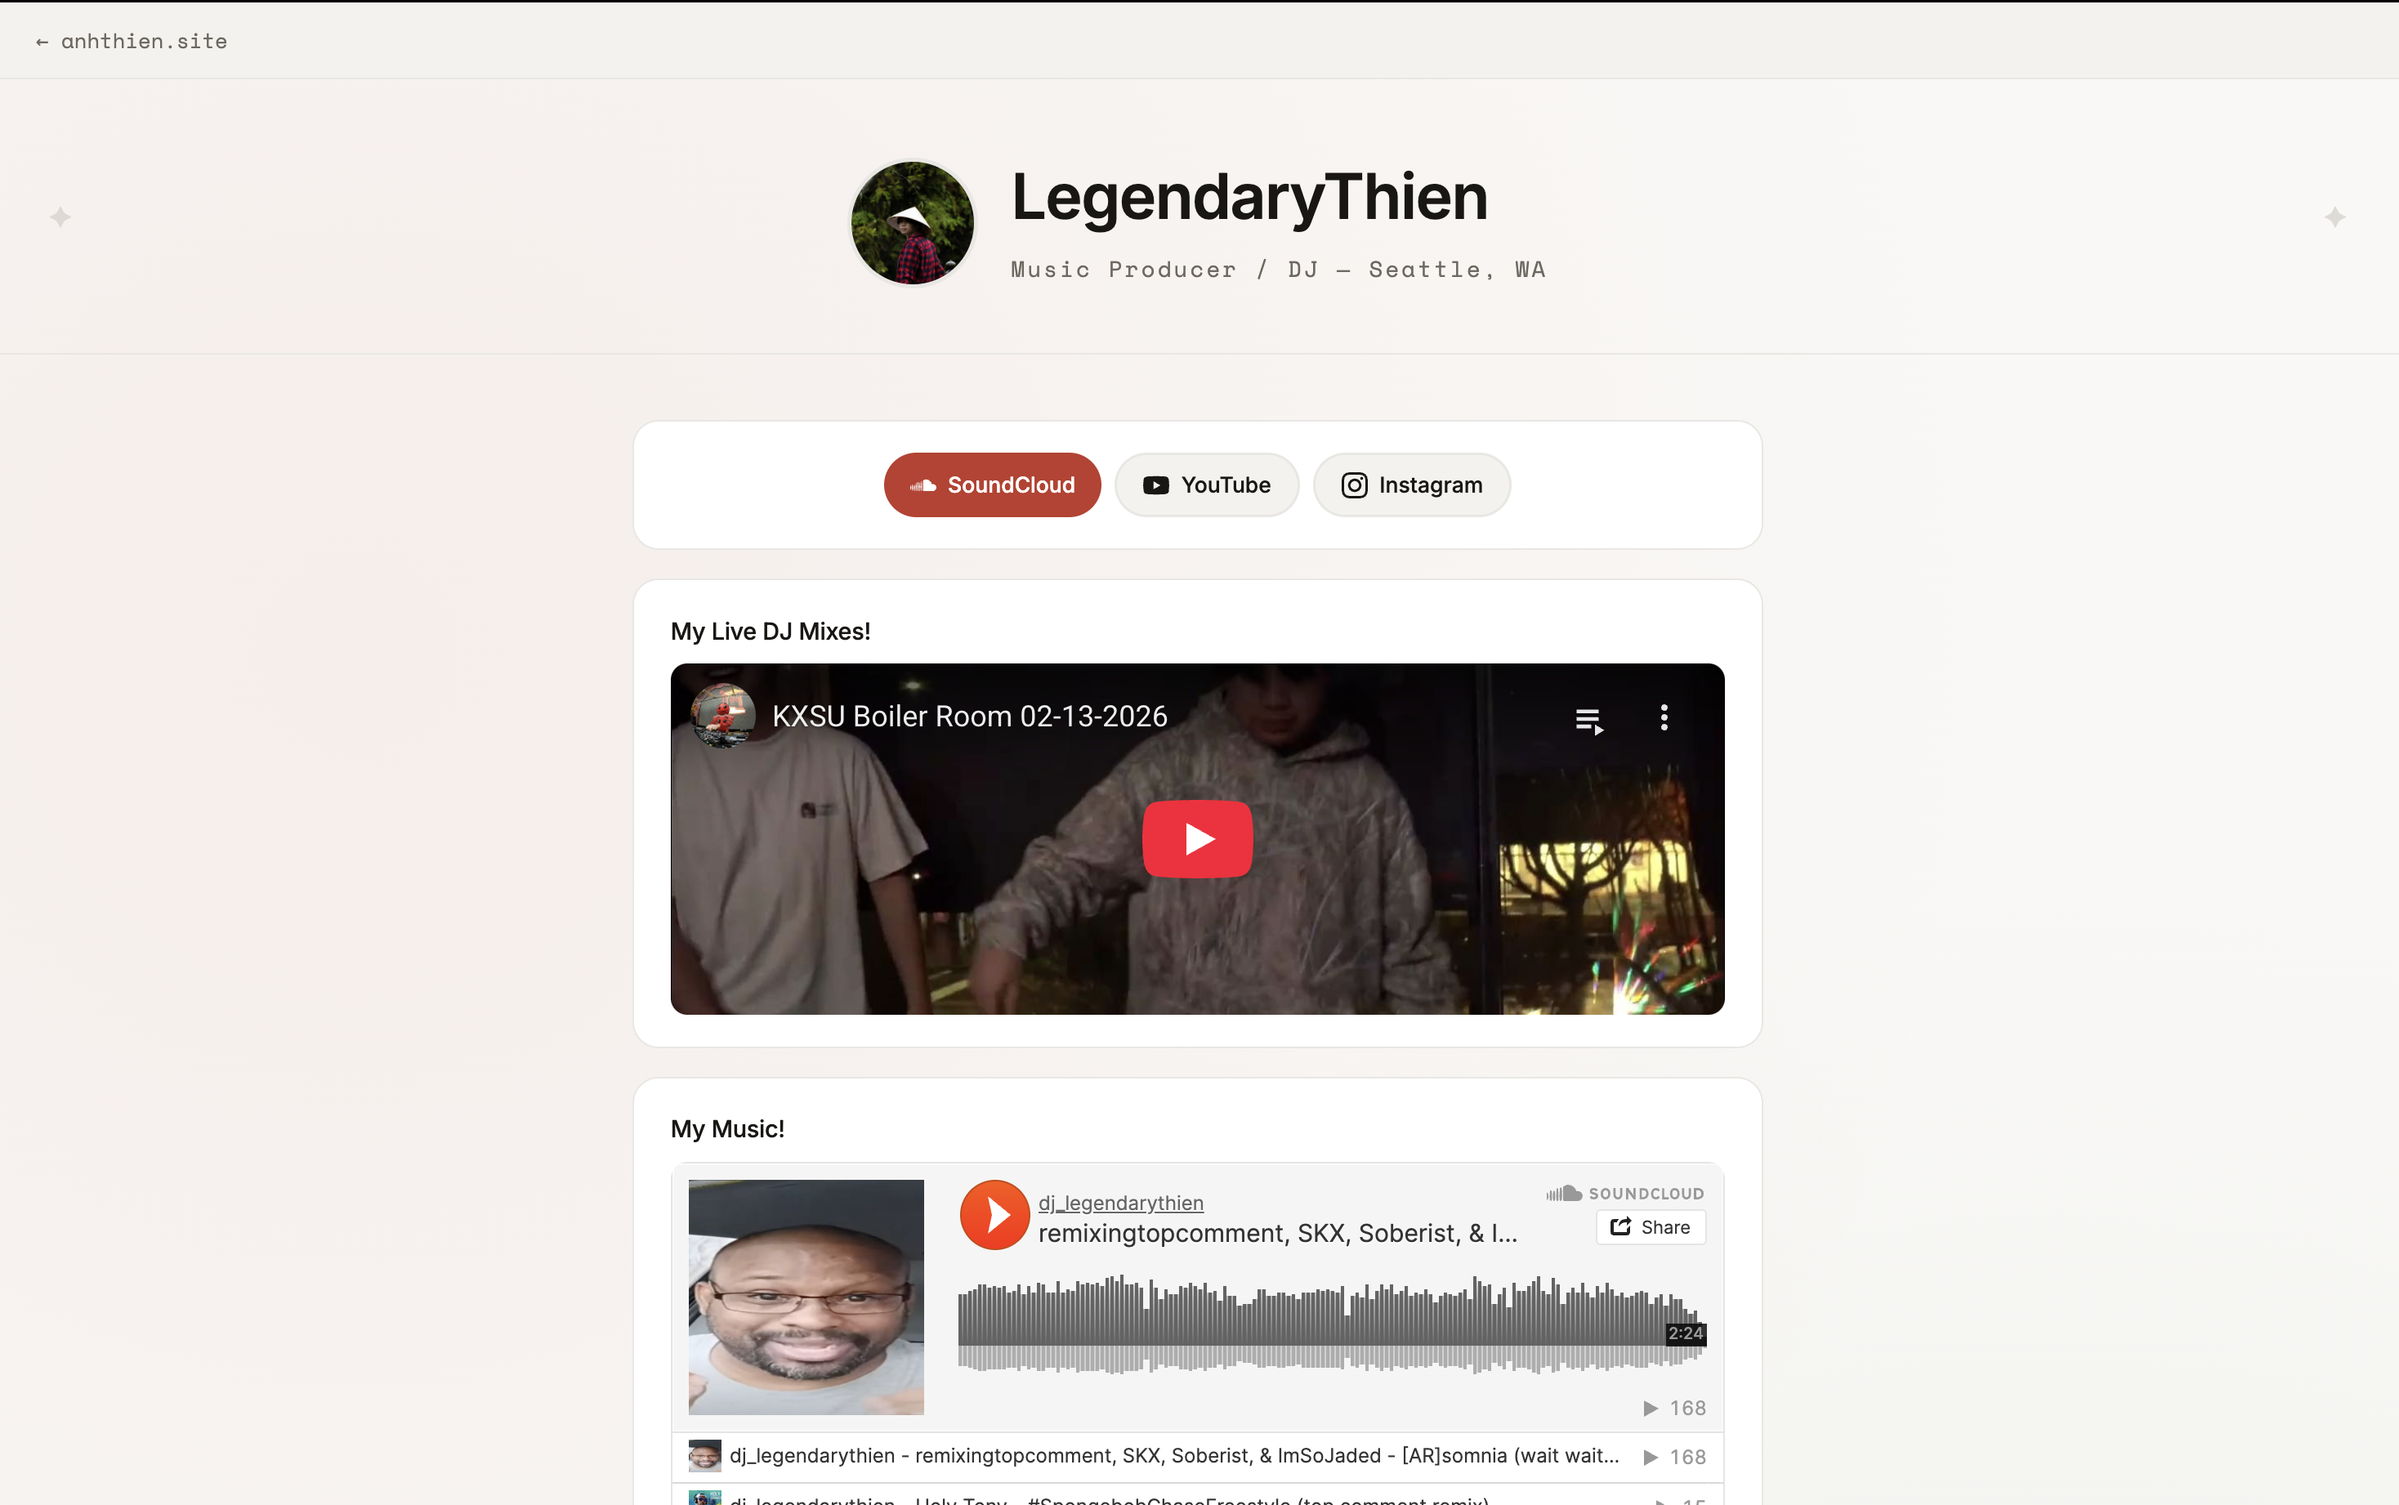
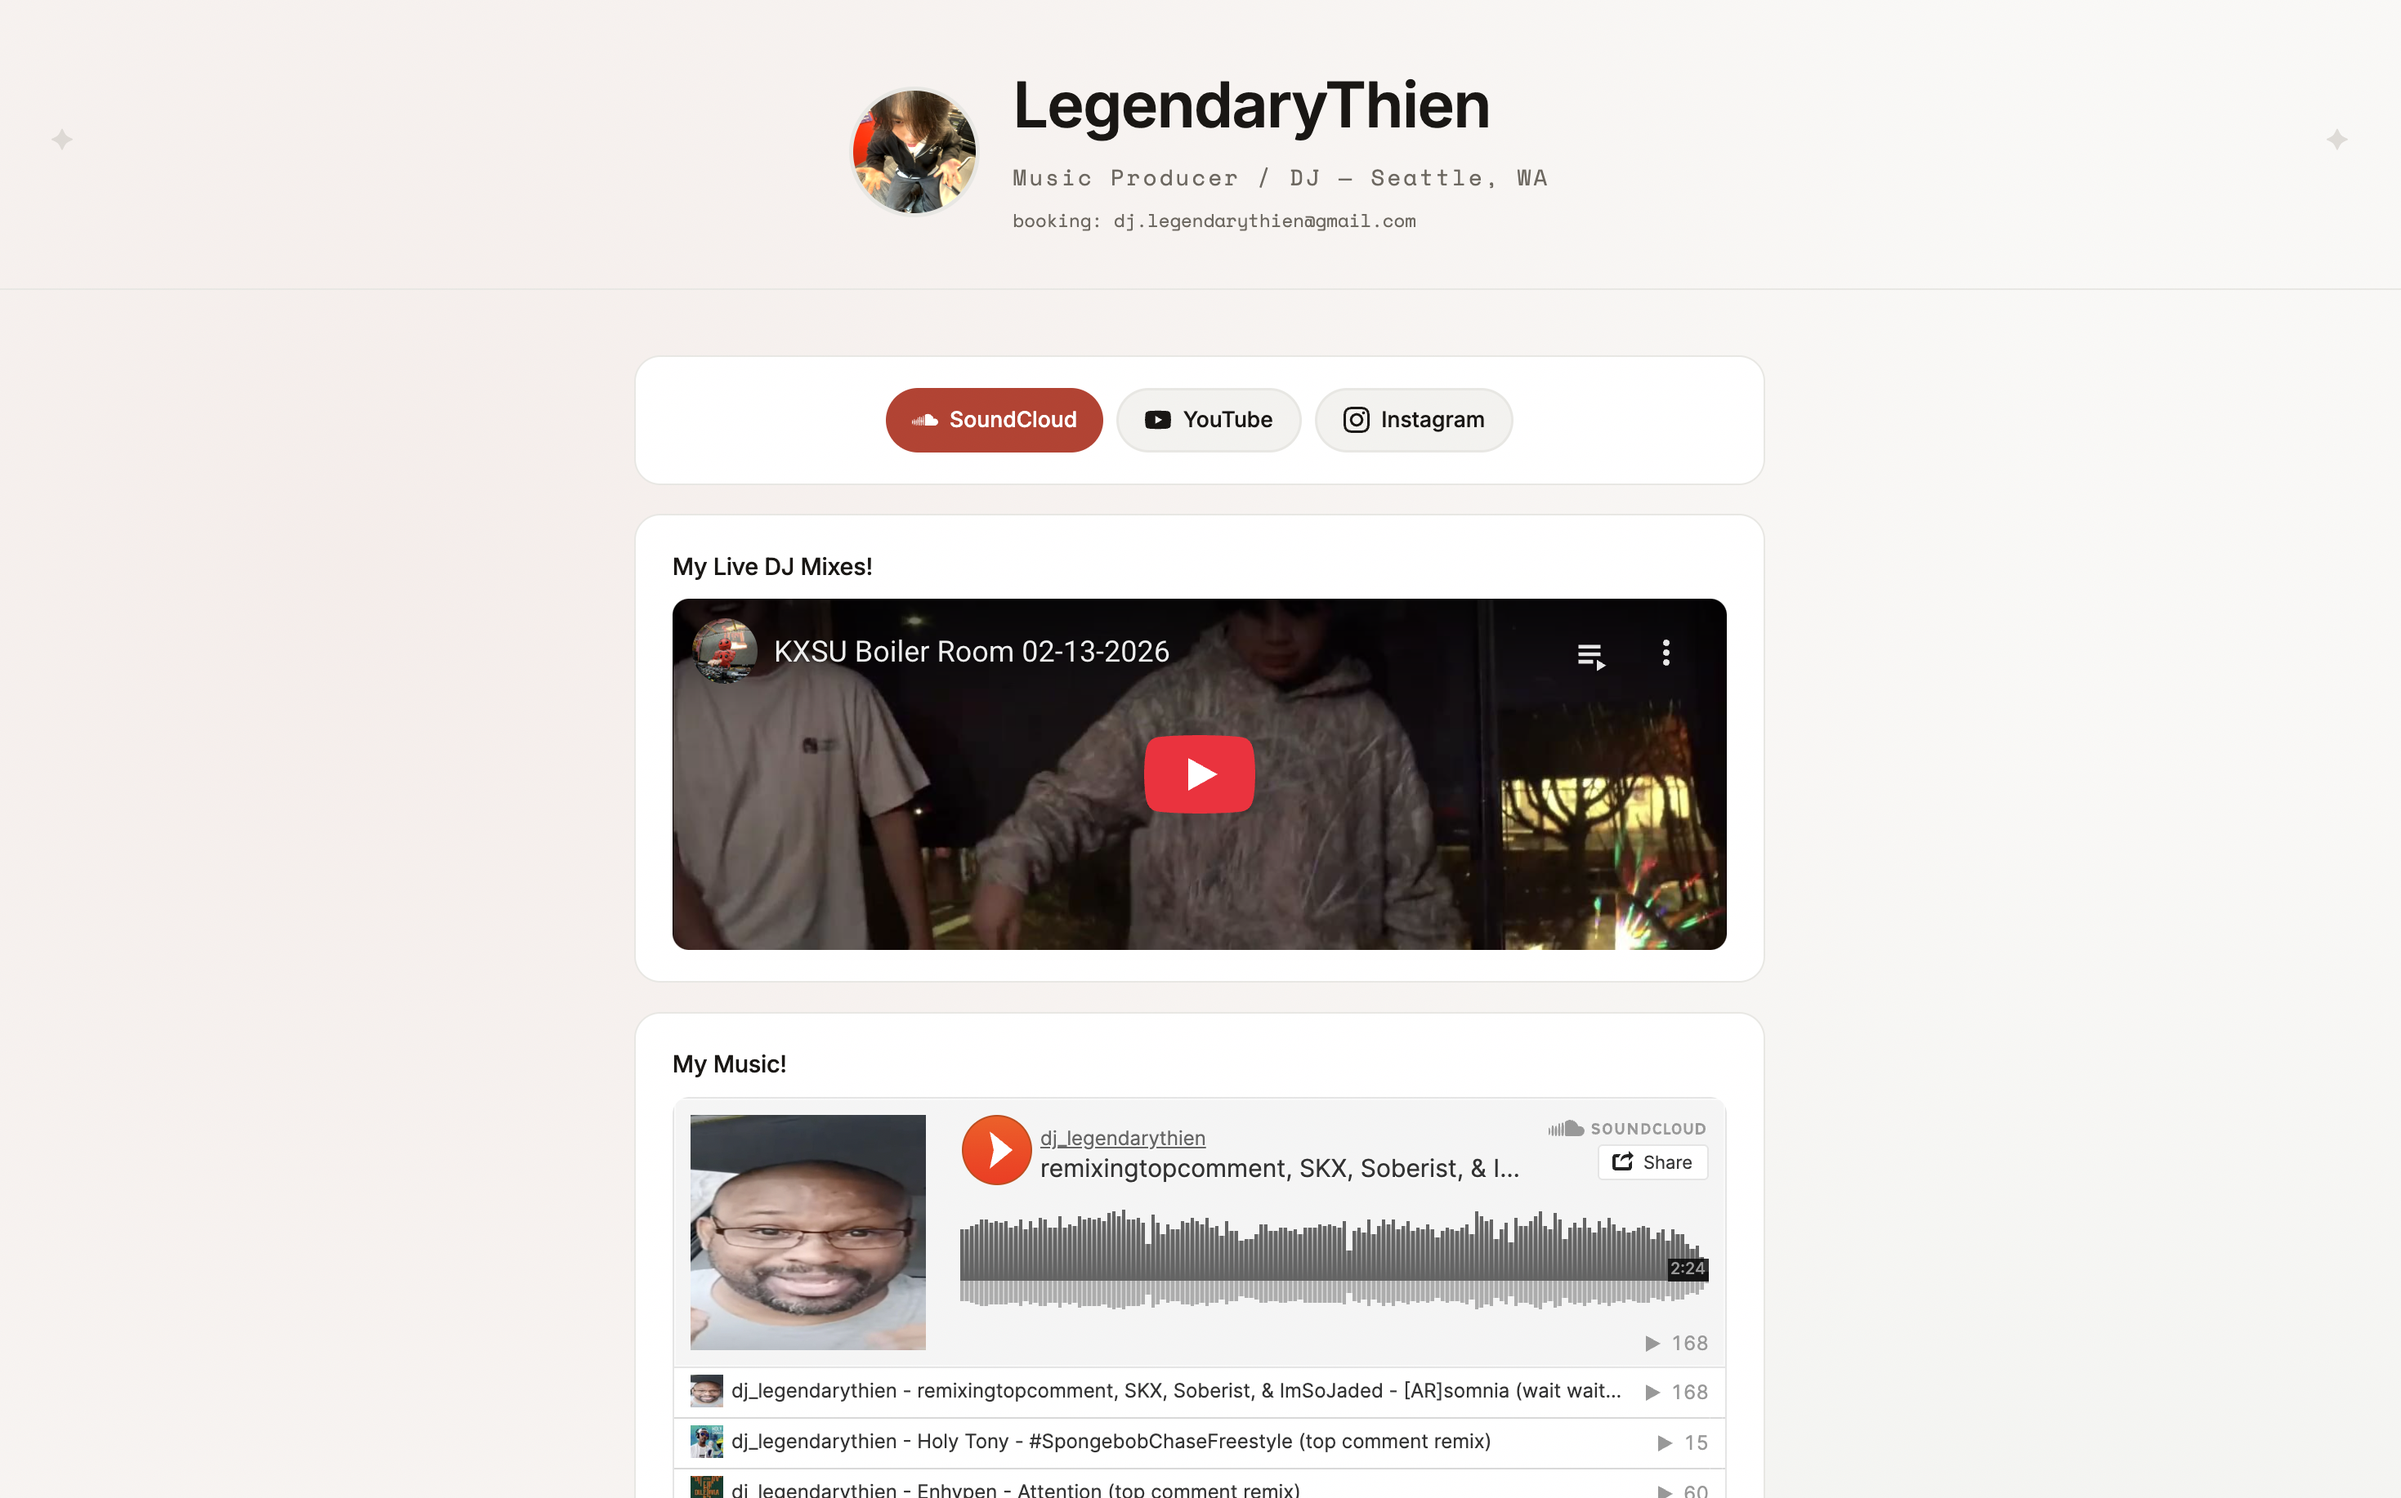
Changed some pictures

diff --git a/aboutme/index.html b/aboutme/index.html
@@ -245,7 +245,7 @@
     <!-- Hero -->
     <section class="about-hero">
       <div class="about-hero-inner">
-        <img src="https://www.anhthien.site/profile_picture.jpg" alt="Anh-Thien Nguyen" class="about-photo animate-on-scroll" />
+        <img src="../aboutme.jpg" alt="Anh-Thien Nguyen" class="about-photo animate-on-scroll" />
         <p class="about-tagline animate-on-scroll">Seattle, WA</p>
         <h1 class="animate-on-scroll">Anh-Thien<br>Nguyen.</h1>
         <p class="about-bio animate-on-scroll">

diff --git a/dj/index.html b/dj/index.html
@@ -107,7 +107,7 @@
 
 <header>
     <div class="header-inner">
-      <img src="https://www.anhthien.site/profile_picture.jpg" alt="Anh-Thien Nguyen" class="profile-pic" />
+      <img src="dj_pfp.jpg" alt="Anh-Thien Nguyen" class="profile-pic" />
       <div>
         <h1>LegendaryThien</h1>
         <p class="tagline">Music Producer / DJ — Seattle, WA</p>
